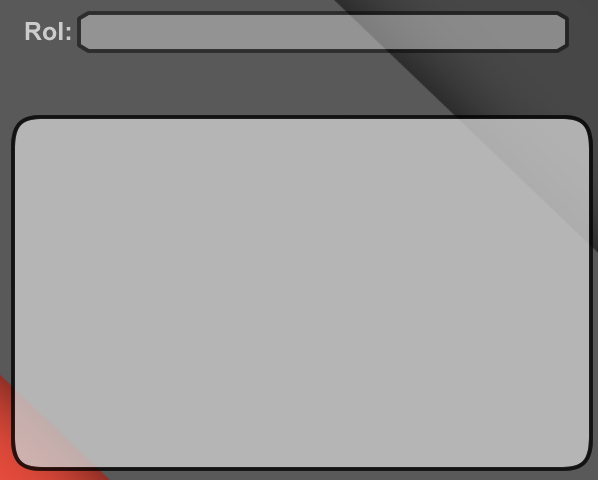
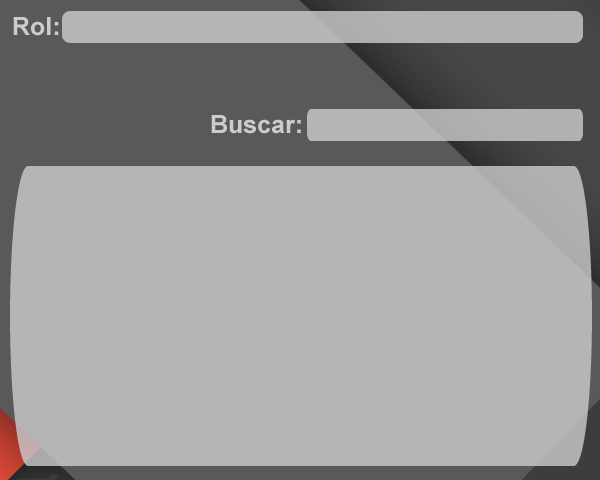
Terminando diseño de Roles (Victor M.)

Changed region(s): [[0.0, 0.0, 1.0, 1.0]]

diff --git a/src/views/vRolesAdmin.java b/src/views/vRolesAdmin.java
@@ -6,13 +6,17 @@
 package views;
 
 import java.awt.Color;
+import java.sql.ResultSet;
+import javax.swing.JTable;
+import javax.swing.table.DefaultTableModel;
+import model.RoleDAO;
 
 /**
  *
  * @author victor
  */
 public class vRolesAdmin extends javax.swing.JFrame {
-
+    JTable tabla;
     /**
      * Creates new form vRolesAdmin
      */
@@ -21,10 +25,37 @@ public class vRolesAdmin extends javax.swing.JFrame {
         jTextField1.setOpaque(false);
         jTextField1.setBackground(new Color(0,0,0,0));
         
+        jTextField2.setOpaque(false);
+        jTextField2.setBackground(new Color(0,0,0,0));
+        
         jScrollPane1.setOpaque(false);
         jScrollPane1.getViewport().setOpaque(false);
         jTable1.setShowGrid(false);
         
+        this.llenarTabla();
+        
+    }
+    
+    public void llenarTablaConBusqueda(String texto){
+        
+    }
+    
+    public void llenarTabla(){
+        RoleDAO r = new RoleDAO();
+        DefaultTableModel dfm = new DefaultTableModel();
+        tabla = this.jTable1;
+        tabla.setModel(dfm);
+        
+        dfm.setColumnIdentifiers(new Object[]{"Codigo","Nombre del Rol"});
+        ResultSet rs = r.getRoles();
+        
+        try{
+            while(rs.next()){
+                dfm.addRow(new Object[]{rs.getInt("roleid"), rs.getString("rolename")});
+            }
+        }catch(Exception e){
+            System.out.println("Error al cargar los datos");
+        }
     }
 
     /**
@@ -36,6 +67,9 @@ public class vRolesAdmin extends javax.swing.JFrame {
     // <editor-fold defaultstate="collapsed" desc="Generated Code">//GEN-BEGIN:initComponents
     private void initComponents() {
 
+        jButton4 = new javax.swing.JButton();
+        jButton3 = new javax.swing.JButton();
+        jTextField2 = new javax.swing.JTextField();
         jScrollPane1 = new javax.swing.JScrollPane();
         jTable1 = new javax.swing.JTable();
         jButton2 = new javax.swing.JButton();
@@ -45,42 +79,82 @@ public class vRolesAdmin extends javax.swing.JFrame {
         setDefaultCloseOperation(javax.swing.WindowConstants.EXIT_ON_CLOSE);
         getContentPane().setLayout(new org.netbeans.lib.awtextra.AbsoluteLayout());
 
-        jTable1.setBorder(null);
-        jTable1.setFont(new java.awt.Font("Ubuntu", 0, 14)); // NOI18N
+        jButton4.setIcon(new javax.swing.ImageIcon(getClass().getResource("/image/eliminarnormal.png"))); // NOI18N
+        jButton4.setBorder(null);
+        jButton4.setBorderPainted(false);
+        jButton4.setContentAreaFilled(false);
+        jButton4.setCursor(new java.awt.Cursor(java.awt.Cursor.DEFAULT_CURSOR));
+        jButton4.setIconTextGap(-3);
+        jButton4.setPressedIcon(new javax.swing.ImageIcon(getClass().getResource("/image/eliminarclick.png"))); // NOI18N
+        getContentPane().add(jButton4, new org.netbeans.lib.awtextra.AbsoluteConstraints(460, 50, -1, -1));
+
+        jButton3.setIcon(new javax.swing.ImageIcon(getClass().getResource("/image/editarnormal.png"))); // NOI18N
+        jButton3.setBorder(null);
+        jButton3.setBorderPainted(false);
+        jButton3.setContentAreaFilled(false);
+        jButton3.setCursor(new java.awt.Cursor(java.awt.Cursor.DEFAULT_CURSOR));
+        jButton3.setIconTextGap(-3);
+        jButton3.setPressedIcon(new javax.swing.ImageIcon(getClass().getResource("/image/editarclick.png"))); // NOI18N
+        getContentPane().add(jButton3, new org.netbeans.lib.awtextra.AbsoluteConstraints(330, 50, -1, -1));
+
+        jTextField2.setFont(new java.awt.Font("Ubuntu", 1, 18)); // NOI18N
+        jTextField2.setForeground(new java.awt.Color(254, 254, 254));
+        jTextField2.setBorder(null);
+        getContentPane().add(jTextField2, new org.netbeans.lib.awtextra.AbsoluteConstraints(310, 113, 270, -1));
+
+        jTable1.setFont(new java.awt.Font("Ubuntu", 0, 18)); // NOI18N
         jTable1.setModel(new javax.swing.table.DefaultTableModel(
             new Object [][] {
-                {null, null, null, null},
-                {null, null, null, null},
-                {null, null, null, null},
-                {null, null, null, null}
+
             },
             new String [] {
-                "Title 1", "Title 2", "Title 3", "Title 4"
+
             }
         ));
         jScrollPane1.setViewportView(jTable1);
 
-        getContentPane().add(jScrollPane1, new org.netbeans.lib.awtextra.AbsoluteConstraints(20, 130, 560, 330));
+        getContentPane().add(jScrollPane1, new org.netbeans.lib.awtextra.AbsoluteConstraints(30, 170, 540, 290));
 
-        jButton2.setIcon(new javax.swing.ImageIcon(getClass().getResource("/image/registrarnormal.png"))); // NOI18N
+        jButton2.setIcon(new javax.swing.ImageIcon(getClass().getResource("/image/nuevonormal.png"))); // NOI18N
         jButton2.setBorder(null);
         jButton2.setBorderPainted(false);
         jButton2.setContentAreaFilled(false);
         jButton2.setCursor(new java.awt.Cursor(java.awt.Cursor.DEFAULT_CURSOR));
         jButton2.setIconTextGap(-3);
-        jButton2.setPressedIcon(new javax.swing.ImageIcon(getClass().getResource("/image/registrarclick.png"))); // NOI18N
-        getContentPane().add(jButton2, new org.netbeans.lib.awtextra.AbsoluteConstraints(30, 60, -1, -1));
+        jButton2.setPressedIcon(new javax.swing.ImageIcon(getClass().getResource("/image/nuevoclick.png"))); // NOI18N
+        jButton2.addActionListener(new java.awt.event.ActionListener() {
+            public void actionPerformed(java.awt.event.ActionEvent evt) {
+                jButton2ActionPerformed(evt);
+            }
+        });
+        getContentPane().add(jButton2, new org.netbeans.lib.awtextra.AbsoluteConstraints(10, 50, -1, -1));
 
-        jTextField1.setFont(new java.awt.Font("Ubuntu", 1, 24)); // NOI18N
+        jTextField1.setFont(new java.awt.Font("Ubuntu", 1, 18)); // NOI18N
         jTextField1.setForeground(new java.awt.Color(254, 254, 254));
         jTextField1.setBorder(null);
-        getContentPane().add(jTextField1, new org.netbeans.lib.awtextra.AbsoluteConstraints(90, 20, 470, -1));
+        getContentPane().add(jTextField1, new org.netbeans.lib.awtextra.AbsoluteConstraints(70, 15, 470, -1));
 
         jLabel1.setIcon(new javax.swing.ImageIcon(getClass().getResource("/image/fondoroladmin.png"))); // NOI18N
         getContentPane().add(jLabel1, new org.netbeans.lib.awtextra.AbsoluteConstraints(0, 0, -1, -1));
 
         pack();
     }// </editor-fold>//GEN-END:initComponents
+
+    private void jButton2ActionPerformed(java.awt.event.ActionEvent evt) {//GEN-FIRST:event_jButton2ActionPerformed
+        RoleDAO r = new RoleDAO();
+        String rolename = jTextField1.getText();
+        if(rolename.equals("")){
+            javax.swing.JOptionPane.showMessageDialog(null, "Inserte un nombre de rol");
+        }else{
+            r.setRolename(rolename);
+            if(r.newRole()){
+                this.llenarTabla();
+                System.out.println("Se inserto correctamente");
+            }else{
+                System.out.println("Problemas en la inserción");
+            }
+        }
+    }//GEN-LAST:event_jButton2ActionPerformed
 
     /**
      * @param args the command line arguments
@@ -119,9 +193,12 @@ public class vRolesAdmin extends javax.swing.JFrame {
 
     // Variables declaration - do not modify//GEN-BEGIN:variables
     private javax.swing.JButton jButton2;
+    private javax.swing.JButton jButton3;
+    private javax.swing.JButton jButton4;
     private javax.swing.JLabel jLabel1;
     private javax.swing.JScrollPane jScrollPane1;
     private javax.swing.JTable jTable1;
     private javax.swing.JTextField jTextField1;
+    private javax.swing.JTextField jTextField2;
     // End of variables declaration//GEN-END:variables
 }
